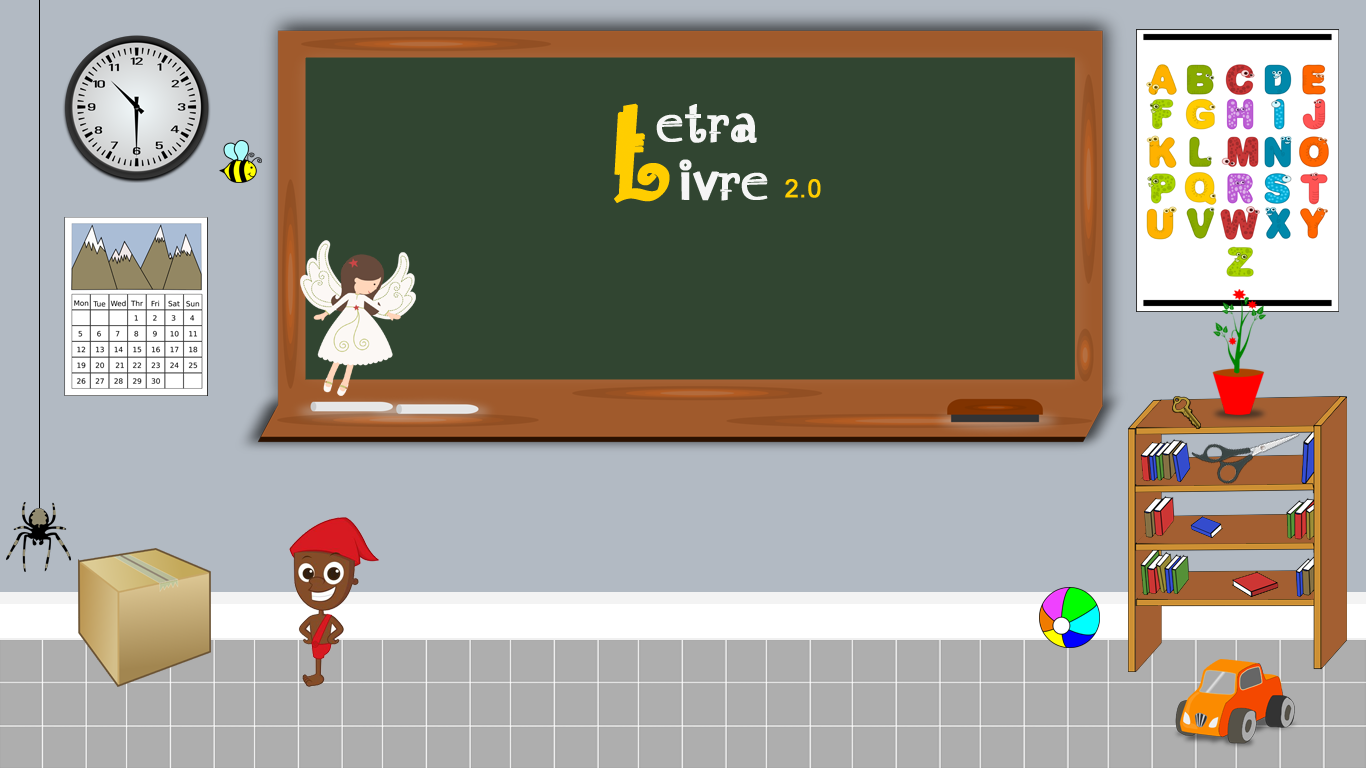
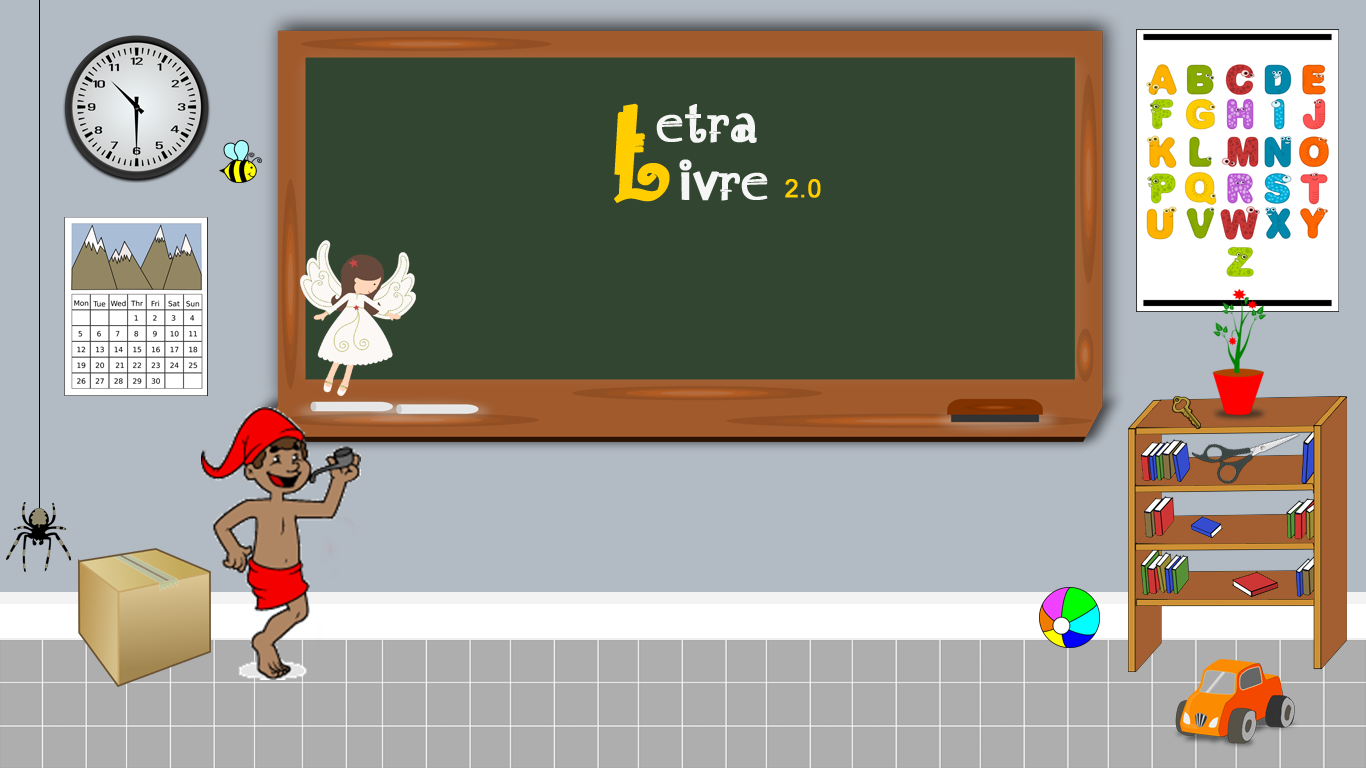
Corrigidos: erro do cronômtro, imagem do saci, background do menu do jogo e da tela do jogo.

Changed region(s): [[0.123, 0.5312, 0.2767, 0.9062]]

diff --git a/FxLetraLivre/src/application/controller/TelaCreditosController.java b/FxLetraLivre/src/application/controller/TelaCreditosController.java
@@ -46,15 +46,25 @@ public class TelaCreditosController extends AbstractController {
 	}
 
 	private void popularInformacoesDosAutores() {
-		String[] sonoplasta = {"Isis Ramona", "Sonoplasta / Designer"};
-		String[] desenvolvedora1 = {"Amanda Maria", "Desenvolvedora / Animadora"};
-		String[] desenvolvedora2 = {"Maria Clara", "Desenvolvedora / Animadora"};
+		String[] sonoplasta = {"Isis Ramona da Cunha", "Sonoplasta / Designer"};
+		String[] desenvolvedora1 = {"Amanda Maria Oliveira", "Desenvolvedora / Animadora"};
+		String[] desenvolvedora2 = {"Maria Clara Pereira", "Desenvolvedora / Animadora"};
 		String[] colaborador = {"Samuel Dantas", "Colaborador"};
+		String[] colaboradorVersao1_1 = {"João Batista Carvalho Nunes", "Letra Livre Versão 1"};
+		String[] colaboradorVersao1_2 = {"José Veríssimo do Nascimento Filho", "Letra Livre Versão 1"};
+		String[] colaboradorVersao1_3 = {"Maria Lucimara Rodrigues da Silva", "Letra Livre Versão 1"};
+		String[] colaboradorVersao1_4 = {"Dennys Leite Maia", "Letra Livre Versão 1"};
+		String[] colaboradorVersao1_5 = {"Joserlene Lima Pinheiro", "Letra Livre Versão 1"};
 		
-		informacaoDosAutores.add(sonoplasta);
 		informacaoDosAutores.add(desenvolvedora1);
+		informacaoDosAutores.add(sonoplasta);
 		informacaoDosAutores.add(desenvolvedora2);	
-		informacaoDosAutores.add(colaborador);	
+		informacaoDosAutores.add(colaborador);
+		informacaoDosAutores.add(colaboradorVersao1_1);
+		informacaoDosAutores.add(colaboradorVersao1_2);
+		informacaoDosAutores.add(colaboradorVersao1_3);	
+		informacaoDosAutores.add(colaboradorVersao1_4);
+		informacaoDosAutores.add(colaboradorVersao1_5);	
 	}
 
 	@Override
@@ -69,7 +79,7 @@ public class TelaCreditosController extends AbstractController {
 		int FUNCAO = 1;
 		for (String[] strings : informacaoDosAutores) {
 			Label label = new Label(strings[NOME].concat(" - ").concat(strings[FUNCAO]));
-			label.setFont(ApplicationUtil.getFontCaviarDreams(22));
+			label.setFont(ApplicationUtil.getFontCaviarDreams(18));
 			label.setTextFill(Paint.valueOf("#f5f5f5"));
 			boxAutores.getChildren().add(label);
 		}

diff --git a/FxLetraLivre/src/application/controller/TelaMenuJogoController.java b/FxLetraLivre/src/application/controller/TelaMenuJogoController.java
@@ -1,7 +1,6 @@
 package application.controller;
 
 import java.net.URL;
-import java.util.Timer;
 
 import application.Main;
 import application.dominio.dao.PalavraConcluidaDAO;
@@ -10,14 +9,16 @@ import application.model.PalavraConcluida;
 import application.util.ApplicationUtil;
 import arq.controller.AbstractController;
 import javafx.event.ActionEvent;
+import javafx.event.EventHandler;
 import javafx.fxml.FXML;
 import javafx.scene.control.Button;
 import javafx.scene.control.Label;
 import javafx.scene.image.Image;
 import javafx.scene.image.ImageView;
 import javafx.scene.layout.AnchorPane;
+import javafx.stage.WindowEvent;
 
-public class TelaMenuJogoController extends TelaJogoController {
+public class TelaMenuJogoController extends AbstractController {
 	
 	private static final String ESTRELA_CINZA_PATH = "/resources/template/tela5/starcinza.png";
 	private static final String ESTRELA_AMARELA_PATH = "/resources/template/tela5/staramarela.png";
@@ -61,7 +62,6 @@ public class TelaMenuJogoController extends TelaJogoController {
     
     @FXML
     void reiniciarJogo(ActionEvent event) {
-    	this.palavraNaoConcluida = true;
     	irParaTelaDoJogo();
     	fecharEstaJanela();
     }
@@ -123,7 +123,7 @@ public class TelaMenuJogoController extends TelaJogoController {
 	
 	public void initLayout() {
 		pane.getStyleClass().add("telaMenuJogo");
-		btnContinuar.setDisable(!palavraNaoConcluida);
+		btnContinuar.setDisable(!TelaJogoController.palavraNaoConcluida);
 		popularEstrelas();
 		mudarLabelTempo();
 	}

diff --git a/FxLetraLivre/src/application/controller/PopupMenuJogo.java b/FxLetraLivre/src/application/controller/PopupMenuJogo.java
@@ -3,11 +3,13 @@ package application.controller;
 import application.Main;
 import application.util.ApplicationUtil;
 import javafx.application.Application;
+import javafx.event.EventHandler;
 import javafx.fxml.FXMLLoader;
 import javafx.scene.Scene;
 import javafx.scene.layout.AnchorPane;
 import javafx.stage.Modality;
 import javafx.stage.Stage;
+import javafx.stage.WindowEvent;
 
 public class PopupMenuJogo extends Application {
 	
@@ -17,6 +19,22 @@ public class PopupMenuJogo extends Application {
 		FXMLLoader loader = ApplicationUtil.getLoader(Main.class.getResource("/application/view/TelaMenuJogo.fxml"));
 		AnchorPane pane = loader.load();
 		TelaMenuJogoController controller = loader.getController();
+		
+		//Retomando cronômetro do jogo ao fechar menu de pausa.
+		primaryStage.setOnCloseRequest(new EventHandler<WindowEvent>() {			
+			public void handle(WindowEvent event) {
+				System.out.println("Retomando cronômetro do jogo.");
+				TelaJogoController.threadRelegio.resume();				
+			}
+		});
+		
+		//Parando cronômetro do jogo ao abrir menu de pausa.
+		primaryStage.setOnShown(new EventHandler<WindowEvent>() {
+			public void handle(WindowEvent event) {
+				System.out.println("Parando cronômetro do jogo.");
+				TelaJogoController.threadRelegio.suspend();				
+			}
+		});
 		
 		//Criando e configurando layout do scene
 		Scene scene = new Scene(pane);

diff --git a/FxLetraLivre/src/application/dominio/dao/PalavraDAO.java b/FxLetraLivre/src/application/dominio/dao/PalavraDAO.java
@@ -1,5 +1,6 @@
 package application.dominio.dao;
 
+import java.nio.charset.Charset;
 import java.util.List;
 
 import org.hibernate.Criteria;
@@ -21,10 +22,18 @@ public class PalavraDAO extends GenericDAO<Palavra> implements PalavraHibernateD
 	public List<Palavra> buscarPalavrasPorGrupo(int grupo) {
 		Criteria criteria = getSession().createCriteria(Palavra.class);
 		List<Palavra> list = criteria.add(Restrictions.eq("grupo", grupo)).list();
-		if(list != null) {
-			return list;
+		for (Palavra palavra : list) {
+			palavra.setTexto(encondingISO_UTF8(palavra.getTexto()));
 		}
-		return null;
+		return list;
+	}
+
+	private String encondingISO_UTF8(String texto) {
+		String retorno = "";
+		if(texto != null) {
+			retorno = new String(texto.getBytes(Charset.forName("ISO-8859-1")),Charset.forName("UTF-8"));
+		}
+		return retorno;
 	}
 
 }
